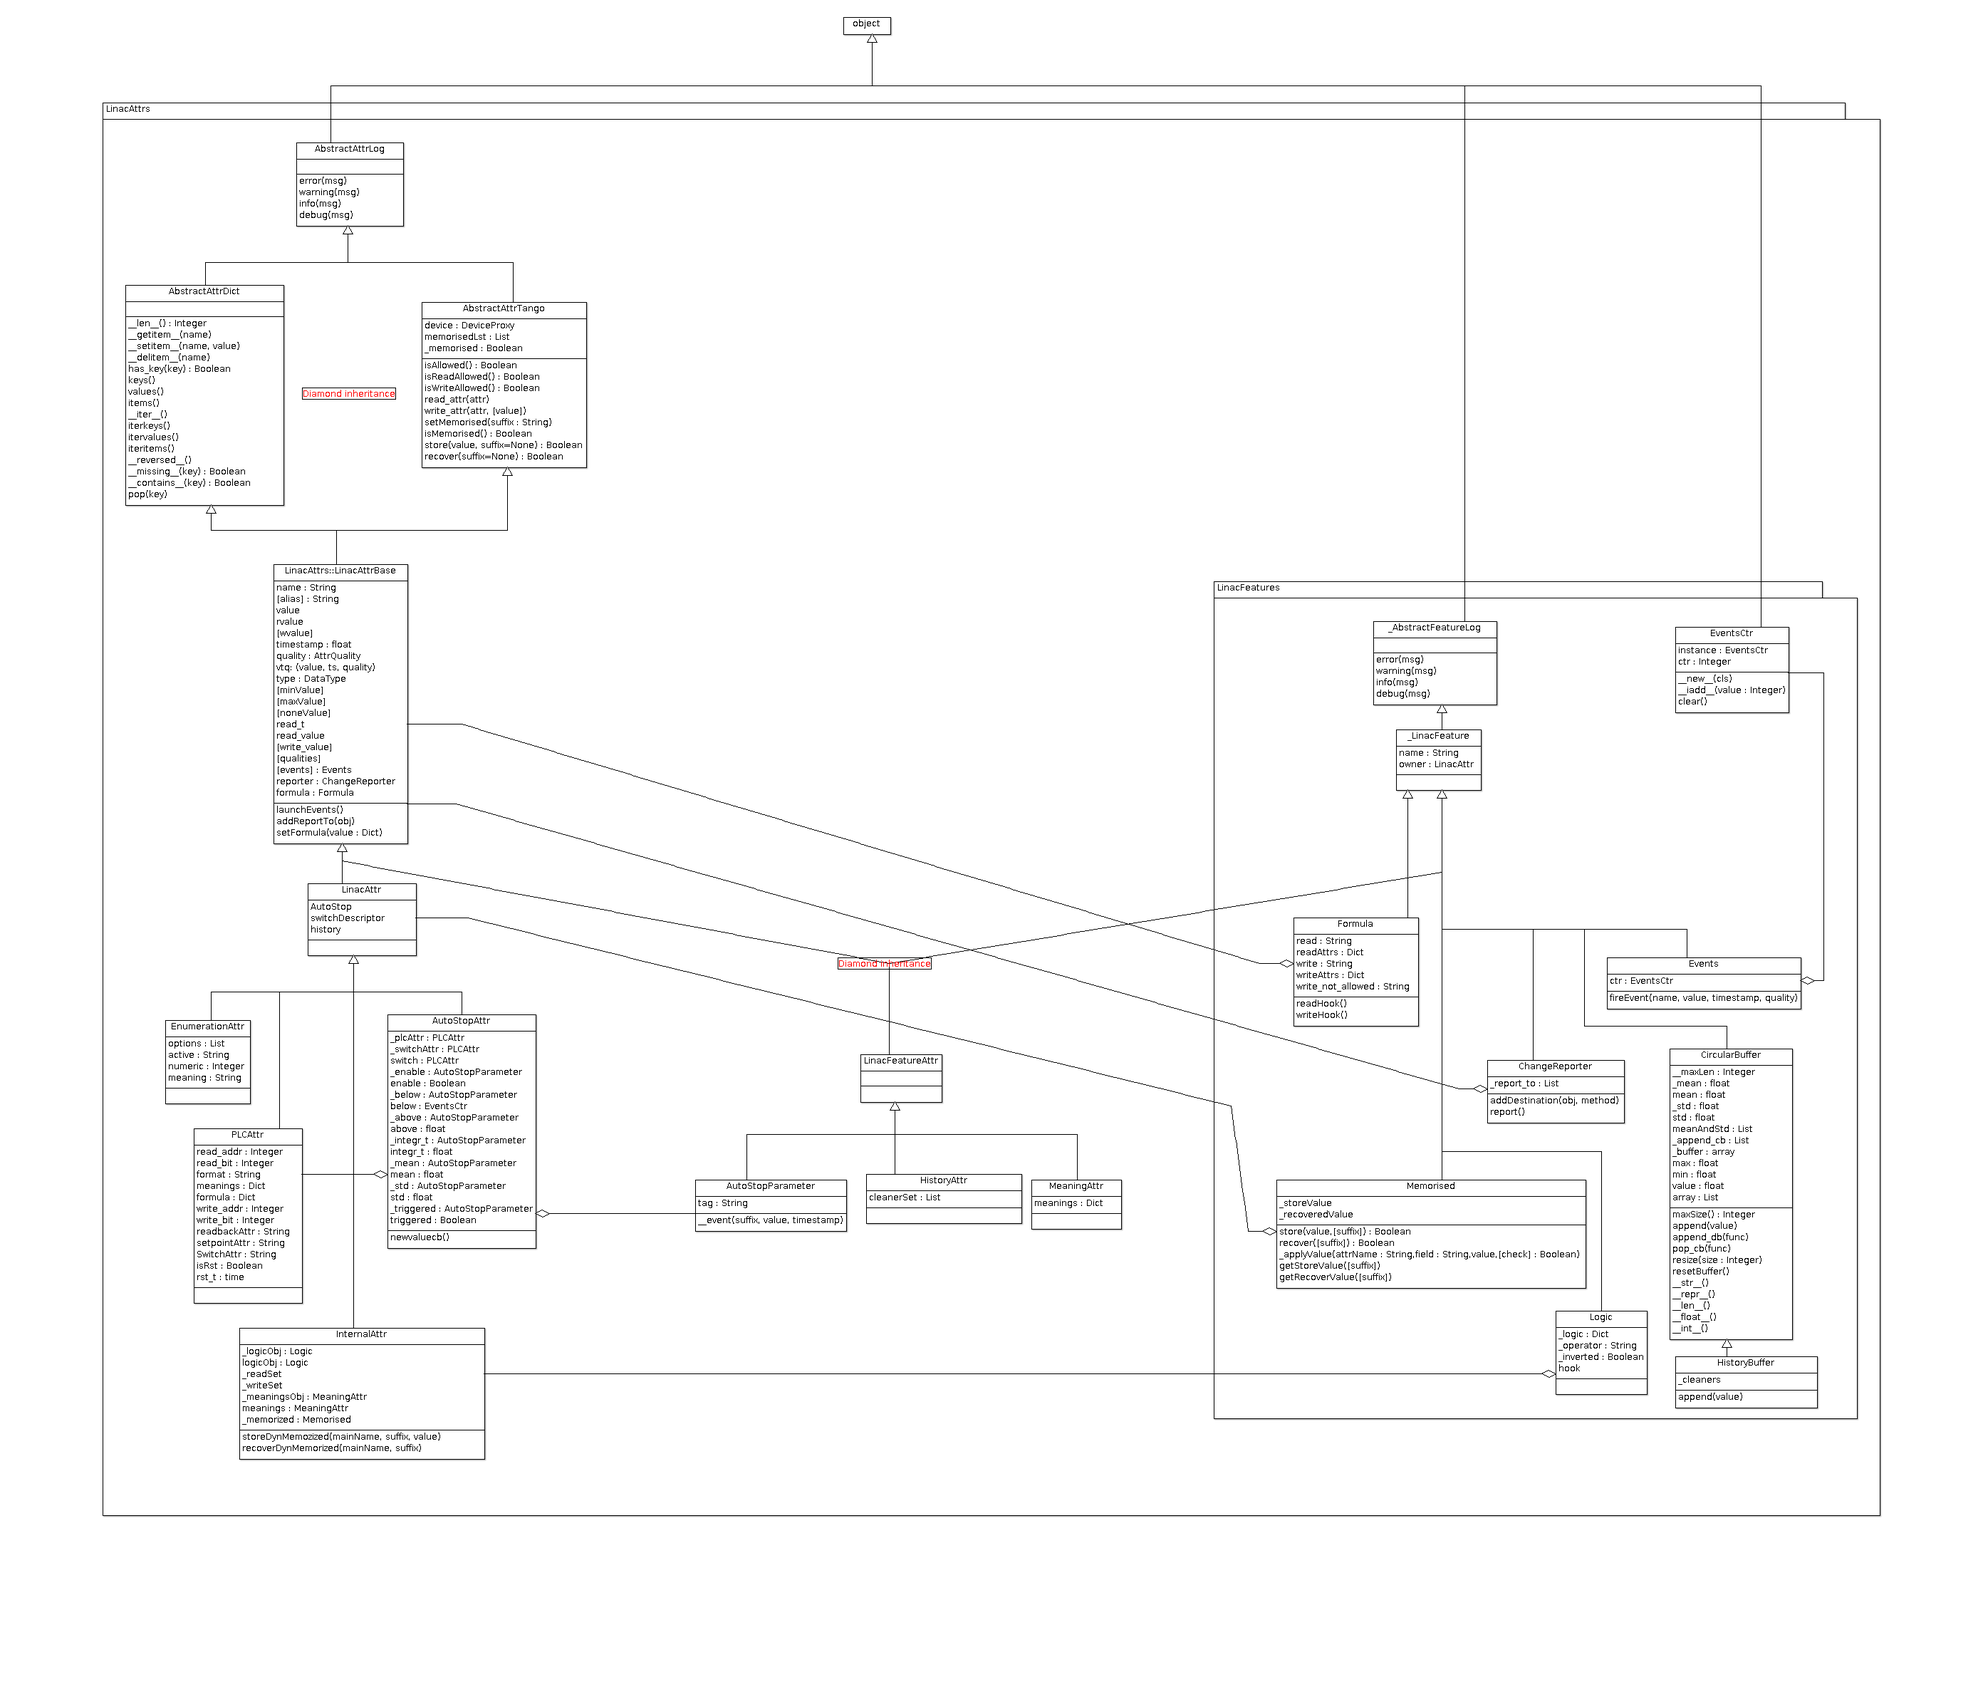
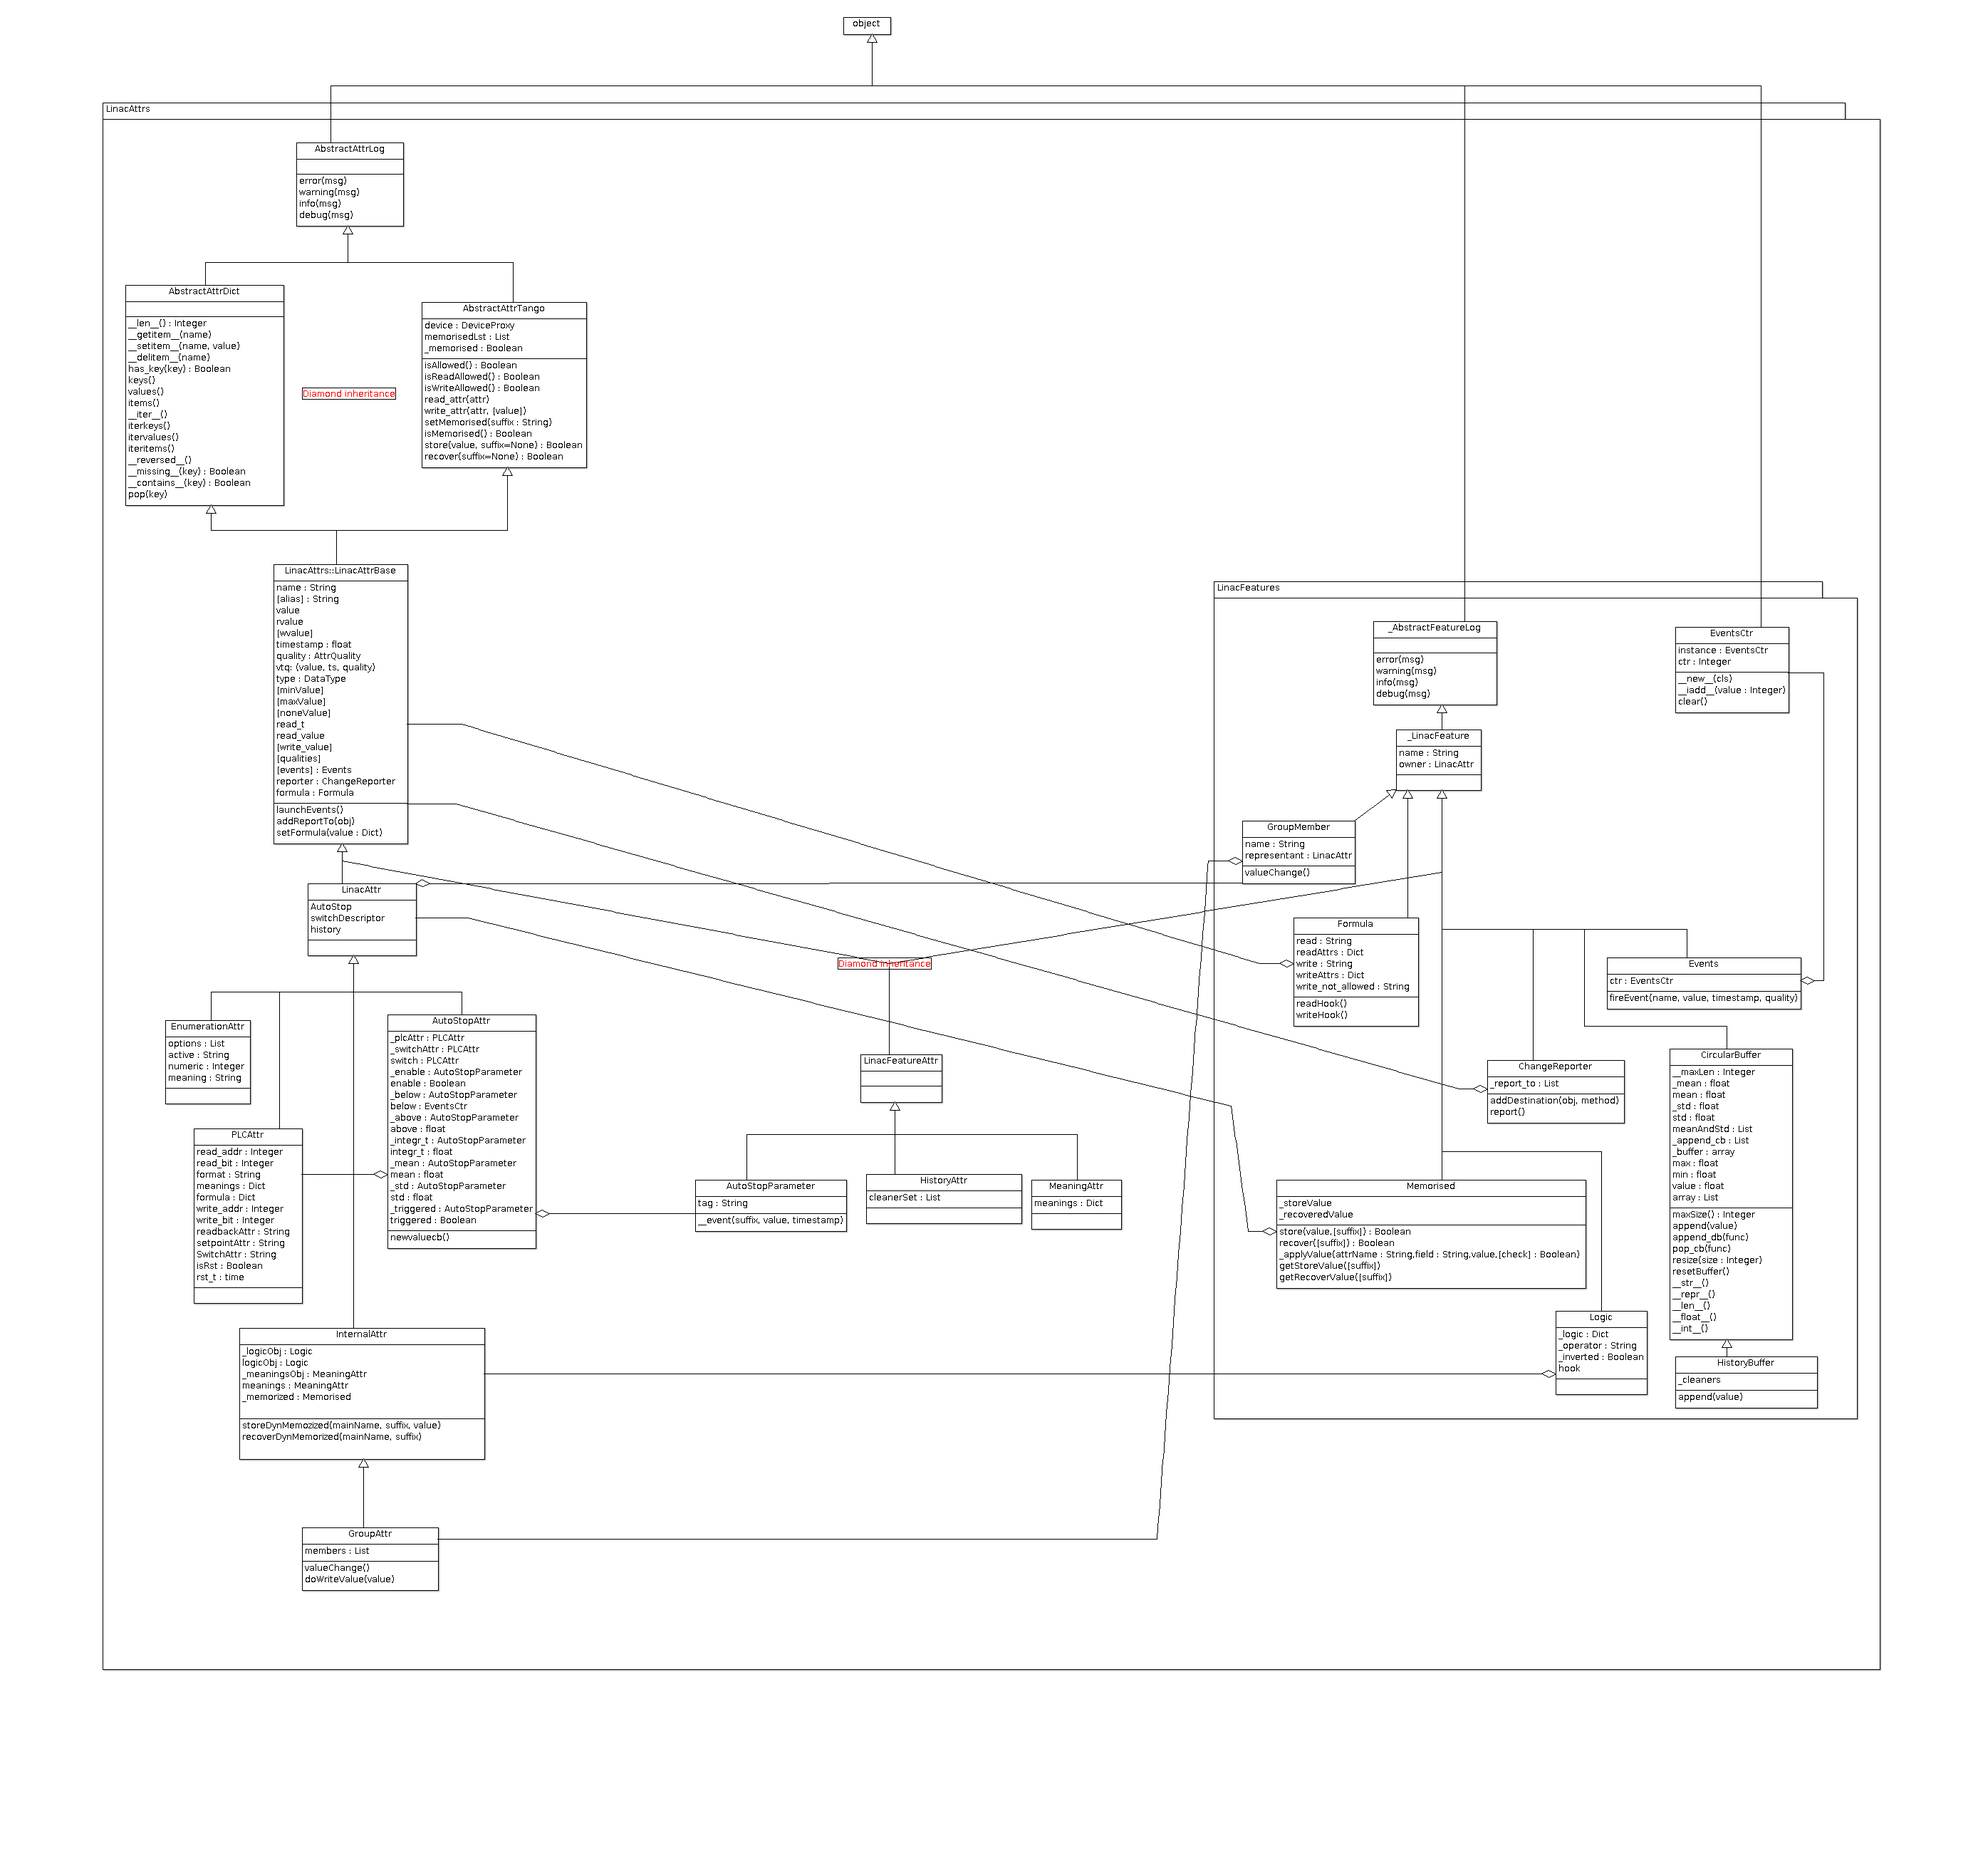
documenting GroupAttr

diff --git a/plchelp.py b/plchelp.py
@@ -57,6 +57,10 @@ __license__ = "GPLv3+"
                     suffixes=None, :String to end with the attribute name
                     **kwargs)
 
+    GrpBit(name,         :Name of the resulting boolean attribute
+           attrGroup=[], :List of attributes members of the group
+           **kwargs)
+
    kwargs: l=None,        :label of the attribute
            d=None,        :description of the attribute
            minValue=None, :minimum value allowed

diff --git a/LinacAttrs/groupAttr.py b/LinacAttrs/groupAttr.py
@@ -80,6 +80,8 @@ class GroupAttr(InternalAttr):
                 obj.addReportTo(member, member.valueChange)
             else:
                 self.error("Unable to find %s member of the group" % (element))
+                # FIXME: this may happen if the construction of this object
+                #        happen before the member declaration.
 
     @property
     def members(self):
